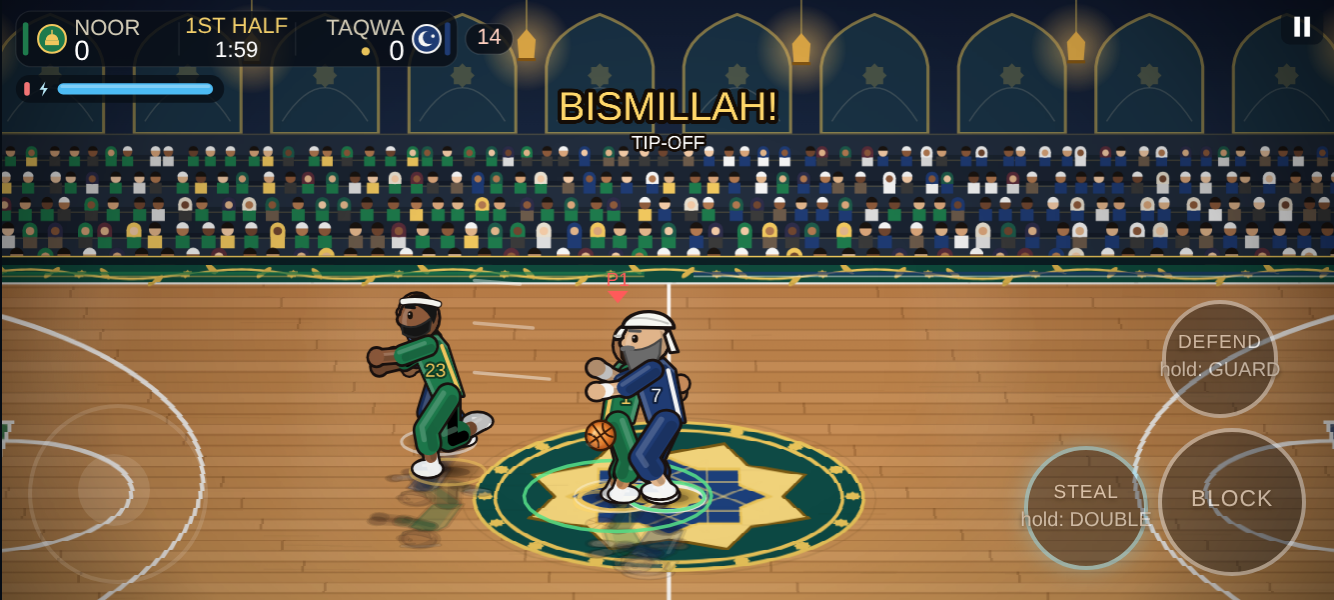
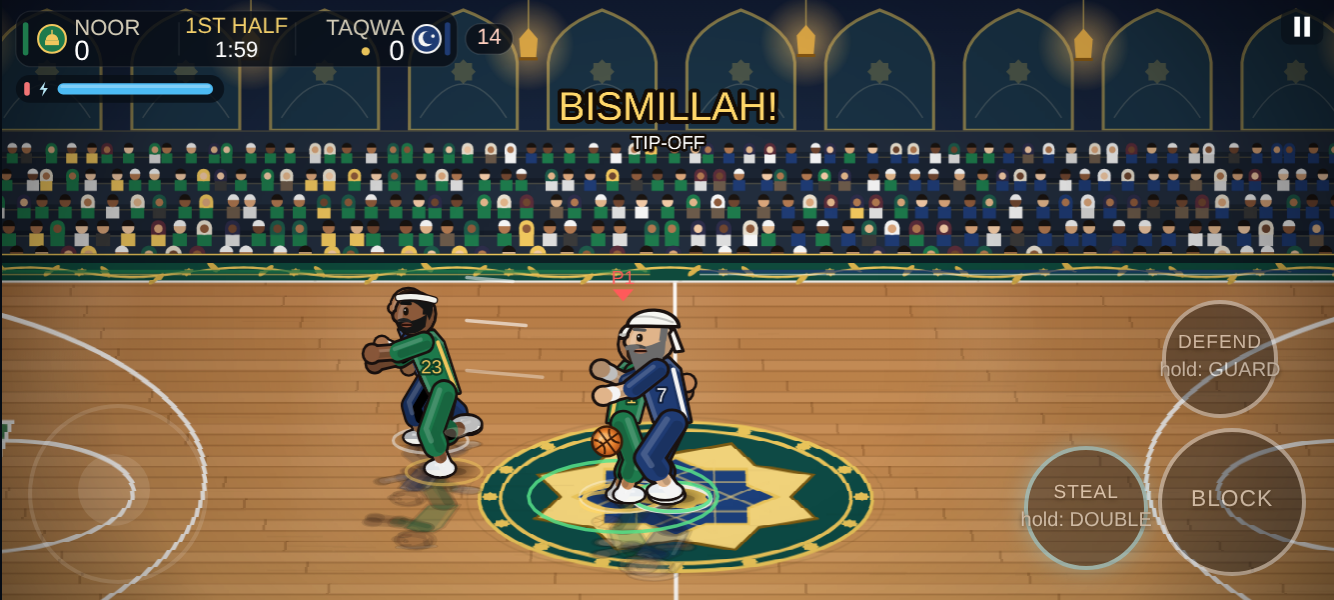
Design pass batch B: a nod keeps the stance (anim-moves)
Claude-Session: https://claude.ai/code/session_01NRPo4aEzozcwdJ8kh3V8pz

diff --git a/src/sim/cast-life.js b/src/sim/cast-life.js
@@ -48,7 +48,7 @@ function castCele(p, sp) {
       return t;
     }
     const tn = p.taunt; if (tn && M.time - tn.t0 < tn.dur) return t;
-    if (p.react && M.time <= p.react.until) return t;
+    if (p.react && M.time <= p.react.until && p.react.type !== 'nod') return t;   // (a nod moves the head only: the stance stays)
     if (!d.stance || sp > 15) return t;
     const bo = ball.owner; if (bo && bo.team !== p.team && dxz(p, bo) < 160) return t;   // guarding: the defensive stance wins
     const S = CAST_STANCES[d.stance]; if (S) S(t, p);
